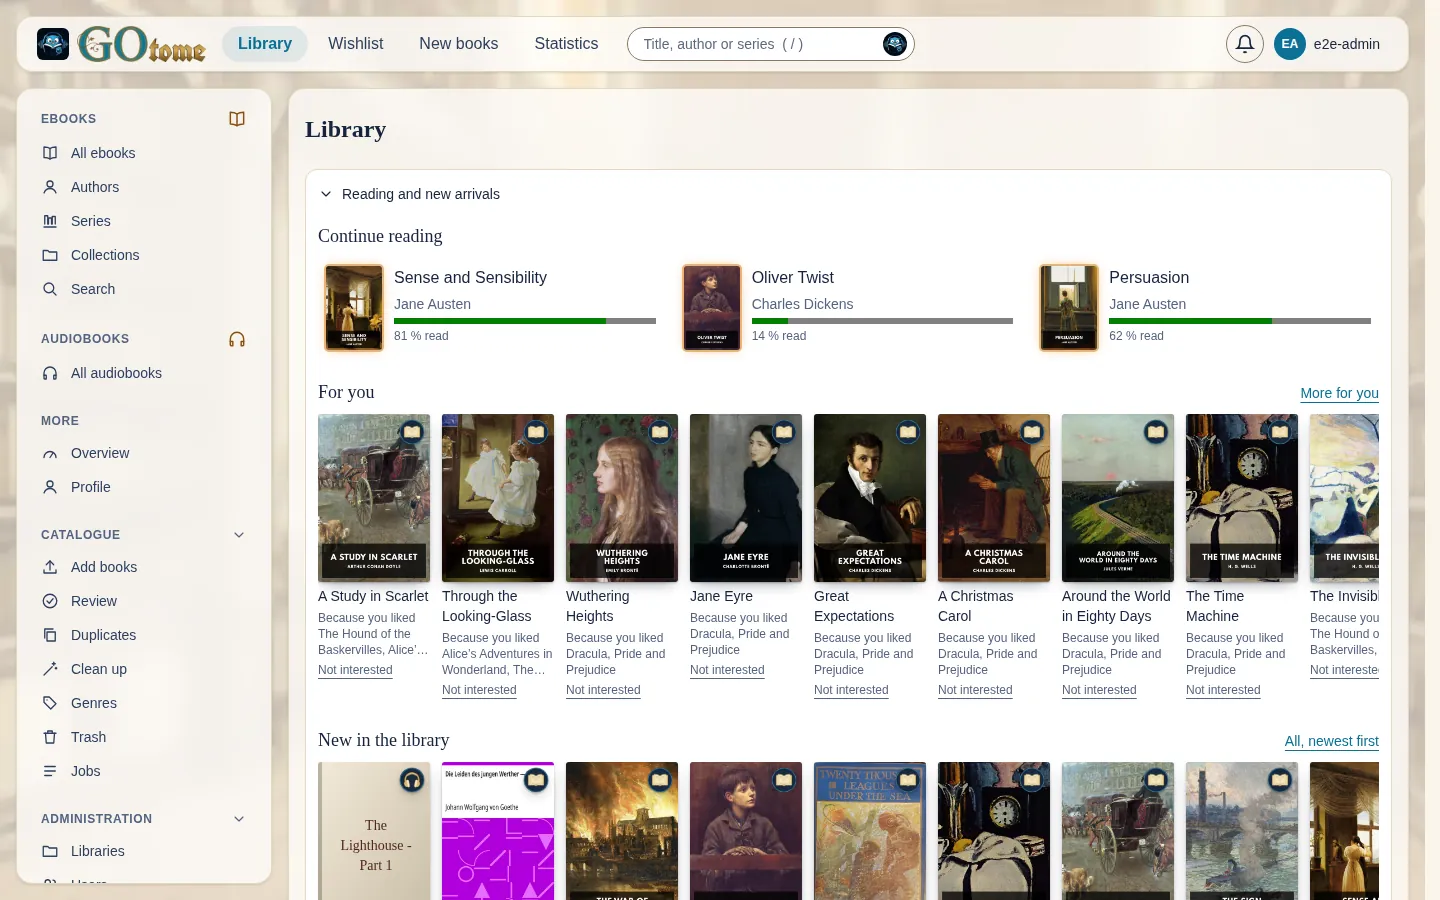
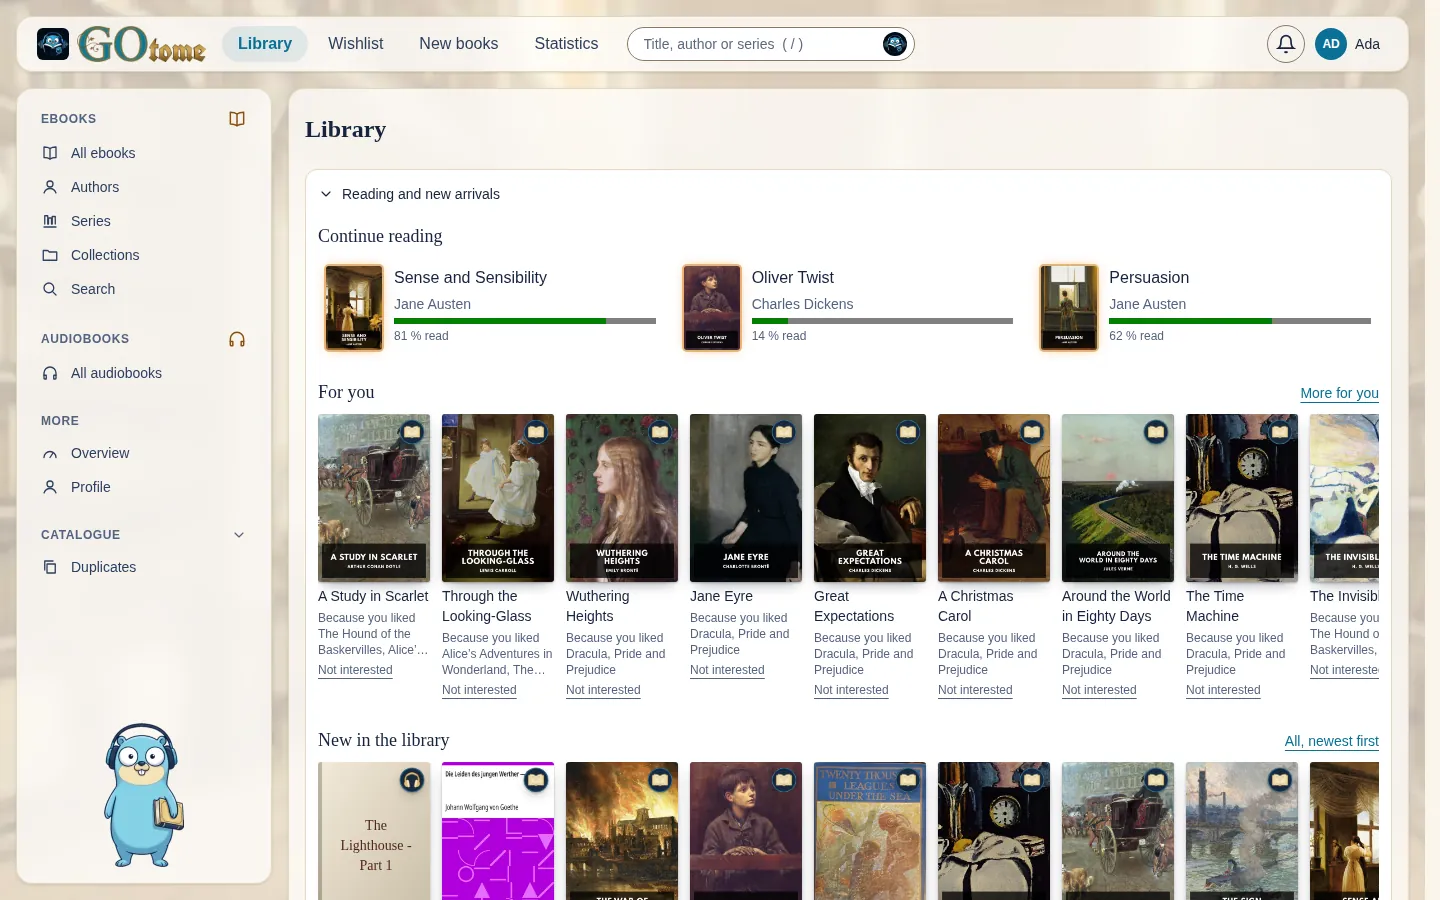
Take the README's shots as a reader, link them, and fix two messages
The shots show a reader called Ada, not the test administrator, on a
shared library, so no scan buttons crowd the phone; each links to its
full size, and the README points to the demo. make screenshots starts
from an empty folder, so a shot taken out no longer comes back. A scan
of one file says so in the singular, and similar-check -recommend says
when nobody has enough rated books instead of a table of zeros.

Claude-Session: https://claude.ai/code/session_01AGsnpkotGjaUVbE34AkRAz

Changed region(s): [[0.0312, 0.7778, 0.125, 0.9644], [0.0312, 0.6222, 0.0938, 0.7156], [0.8438, 0.0311, 0.9688, 0.0622]]

diff --git a/e2e/screenshots/screenshots.spec.ts b/e2e/screenshots/screenshots.spec.ts
@@ -7,6 +7,10 @@ import { ADMIN } from "../fixtures/stack";
 const BOOKS = fileURLToPath(new URL("../../web/demo/files/", import.meta.url));
 const AUDIO = fileURLToPath(new URL("../fixtures/audio/", import.meta.url));
 const OUT = process.env.SHOTS_OUT ?? "/src/.cache/screenshots";
+// The shots show a reader, not the administrator who set the stack up:
+// a reader sees no scan buttons, and the name is the one in the corner.
+// A throwaway account of a local stack that `make clean` removes.
+const READER = { username: "Ada", password: "ada-reads-public-domain-books" };
 
 type Theme = "Light" | "Dark";
 
@@ -16,7 +20,7 @@ async function shoot(page: Page, name: string, theme: Theme): Promise<void> {
 }
 
 async function setTheme(page: Page, theme: Theme): Promise<void> {
-	const menu = await accountMenu(page);
+	const menu = await accountMenu(page, READER.username);
 	await menu.getByLabel("Colours").selectOption({ label: theme });
 	await expect(page.locator("html")).toHaveAttribute(
 		"data-theme",
@@ -28,7 +32,7 @@ async function setTheme(page: Page, theme: Theme): Promise<void> {
 async function signInFresh(page: Page): Promise<void> {
 	await page.goto("/");
 	await expect(page.getByRole("heading", { name: "Sign in" })).toBeVisible();
-	await signIn(page);
+	await signIn(page, READER);
 	await expect(
 		page.getByRole("heading", { name: "Library", level: 1 }),
 	).toBeVisible();
@@ -66,7 +70,7 @@ test("the screenshots of the README", async ({ browser, page }) => {
 	for (const l of before.libraries) await page.request.delete(`/api/v1/libraries/${l.id}`);
 
 	const created = await page.request.post("/api/v1/libraries", {
-		data: { name: "Public domain", mode: "managed", visibility: "private" },
+		data: { name: "Public domain", mode: "managed", visibility: "shared" },
 	});
 	expect(created.status()).toBe(201);
 	const library = (await created.json()).id as string;
@@ -136,6 +140,13 @@ test("the screenshots of the README", async ({ browser, page }) => {
 		)
 		.toBe(true);
 
+	const made = await page.request.post("/api/v1/users", {
+		data: { ...READER, role: "reader" },
+	});
+	expect([201, 409]).toContain(made.status());
+	await page.context().clearCookies();
+	await signInFresh(page);
+
 	const id = (key: string): string => ids[key] as string;
 	const status = (book: string, body: object) =>
 		page.request.put(`/api/v1/books/${book}/reading`, { data: body });
@@ -170,8 +181,6 @@ test("the screenshots of the README", async ({ browser, page }) => {
 	for (const key of ["b-war", "b-twenty"])
 		await status(id(key), { status: "wishlist" });
 
-	await page.context().clearCookies();
-	await signInFresh(page);
 	await page.setViewportSize({ width: 1440, height: 900 });
 
 	const found = page.getByRole("region", { name: "Books found" });
@@ -241,6 +250,4 @@ test("the screenshots of the README", async ({ browser, page }) => {
 		await shoot(p, "phone-book", theme);
 	}
 	await phone.close();
-
-	await page.request.delete(`/api/v1/libraries/${library}`);
 });

diff --git a/web/src/i18n/de.ts b/web/src/i18n/de.ts
@@ -1339,6 +1339,7 @@ export const de: Record<MessageKey, string> = {
 	"scan.queued": "Wartet auf das Durchsuchen …",
 	"scan.running": "Wird durchsucht …",
 	"scan.done": "Durchsucht am {when}: {count} Dateien, {changes}.",
+	"scan.done.one": "Durchsucht am {when}: eine Datei, {changes}.",
 	"scan.failed": "Das Durchsuchen am {when} ist fehlgeschlagen. {error}",
 	"scan.nothingNew": "nichts Neues",
 	"scan.added": "{count} neu",

diff --git a/web/src/libraries/scan.tsx b/web/src/libraries/scan.tsx
@@ -37,7 +37,7 @@ function describe(scan: Scan | undefined): string {
 	const changes = CHANGES.filter(([field]) => Number(scan[field]) > 0).map(
 		([field, key]) => t(key, { count: Number(scan[field]) }),
 	);
-	return t("scan.done", {
+	return t(scan.filesSeen === 1 ? "scan.done.one" : "scan.done", {
 		when: at,
 		count: scan.filesSeen,
 		changes: changes.length > 0 ? changes.join(", ") : t("scan.nothingNew"),

diff --git a/web/src/i18n/en.ts b/web/src/i18n/en.ts
@@ -1322,6 +1322,7 @@ export const en = {
 	"scan.queued": "Waiting to be scanned…",
 	"scan.running": "Scanning…",
 	"scan.done": "Scanned {when}: {count} files, {changes}.",
+	"scan.done.one": "Scanned {when}: one file, {changes}.",
 	"scan.failed": "The scan on {when} failed. {error}",
 	"scan.nothingNew": "nothing new",
 	"scan.added": "{count} new",

diff --git a/backend/cmd/gotome/main.go b/backend/cmd/gotome/main.go
@@ -612,7 +612,12 @@ func recommendCheck(ctx context.Context, vectors *similar.Service, minRated int,
 		out.SetIndent("", "  ")
 		return out.Encode(r)
 	}
-	fmt.Printf("People asked about  %d, %d books hidden in all\n\n", r.People, r.Hidden)
+	if r.People == 0 {
+		fmt.Printf("Nobody has %d or more books rated 4 or 5 stars, so there is nothing to measure.\n"+
+			"Rate books, or import a reading history, then run this again; -min-rated asks for fewer.\n", minRated)
+		return nil
+	}
+	fmt.Printf("People asked about %d, %d books hidden in all\n\n", r.People, r.Hidden)
 	fmt.Printf("%-40s %8s %10s %10s\n", "Configuration", "Hidden", "Recall@10", "Recall@20")
 	for _, c := range r.Results {
 		fmt.Printf("%-40s %8d %9.1f%% %9.1f%%\n", c.Name, c.Hidden, 100*c.Recall10, 100*c.Recall20)

diff --git a/README.md b/README.md
@@ -26,25 +26,26 @@ your household, each person with their own reading state.
 
 ## Screenshots
 
-Made from a stack holding only public-domain books (`make screenshots`).
+Made from a stack holding only public-domain books (`make screenshots`); click one for its full size.
+Or try it yourself in the [demo](https://praetorianer777.github.io/GoTome/), which runs in your browser with public-domain books, with no server and nothing kept after a reload.
 
 <p align="center">
-  <img src="docs/screenshots/library-light.webp" alt="The library as a grid of covers, in the light colours" width="49%">
-  <img src="docs/screenshots/library-dark.webp" alt="The library as a grid of covers, in the dark colours" width="49%">
+  <a href="docs/screenshots/library-light.webp"><img src="docs/screenshots/library-light.webp" alt="The library as a grid of covers, in the light colours" width="49%"></a>
+  <a href="docs/screenshots/library-dark.webp"><img src="docs/screenshots/library-dark.webp" alt="The library as a grid of covers, in the dark colours" width="49%"></a>
 </p>
 
 <table>
   <tr>
-    <td><img src="docs/screenshots/book-light.webp" alt="A book's page with its details, files and reading state"><br>A book's page</td>
-    <td><img src="docs/screenshots/search-dark.webp" alt="Full-text search results with the matching passages"><br>Search inside the books</td>
+    <td><a href="docs/screenshots/book-light.webp"><img src="docs/screenshots/book-light.webp" alt="A book's page with its details, files and reading state"></a><br>A book's page</td>
+    <td><a href="docs/screenshots/search-dark.webp"><img src="docs/screenshots/search-dark.webp" alt="Full-text search results with the matching passages"></a><br>Search inside the books</td>
   </tr>
   <tr>
-    <td><img src="docs/screenshots/reader-light.webp" alt="The ebook reader"><br>The reader</td>
-    <td><img src="docs/screenshots/audiobook-dark.webp" alt="The audiobook player with its parts"><br>The audiobook player</td>
+    <td><a href="docs/screenshots/reader-light.webp"><img src="docs/screenshots/reader-light.webp" alt="The ebook reader"></a><br>The reader</td>
+    <td><a href="docs/screenshots/audiobook-dark.webp"><img src="docs/screenshots/audiobook-dark.webp" alt="The audiobook player with its parts"></a><br>The audiobook player</td>
   </tr>
   <tr>
-    <td><img src="docs/screenshots/book-dark.webp" alt="A book's page in the dark colours"><br>Dark colours</td>
-    <td align="center"><img src="docs/screenshots/phone-library-light.webp" alt="The library on a phone" width="45%"><img src="docs/screenshots/phone-library-dark.webp" alt="The library on a phone, dark" width="45%"><br>On a phone</td>
+    <td><a href="docs/screenshots/book-dark.webp"><img src="docs/screenshots/book-dark.webp" alt="A book's page in the dark colours"></a><br>Dark colours</td>
+    <td align="center"><a href="docs/screenshots/phone-library-light.webp"><img src="docs/screenshots/phone-library-light.webp" alt="The library on a phone" width="45%"></a><a href="docs/screenshots/phone-library-dark.webp"><img src="docs/screenshots/phone-library-dark.webp" alt="The library on a phone, dark" width="45%"></a><br>On a phone</td>
   </tr>
 </table>
 
